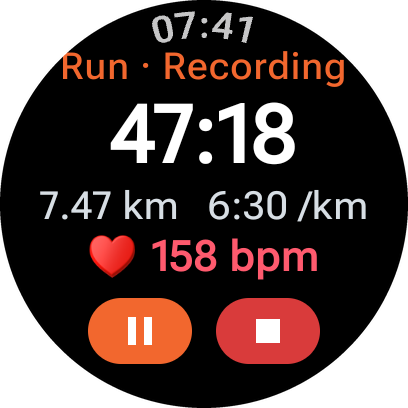
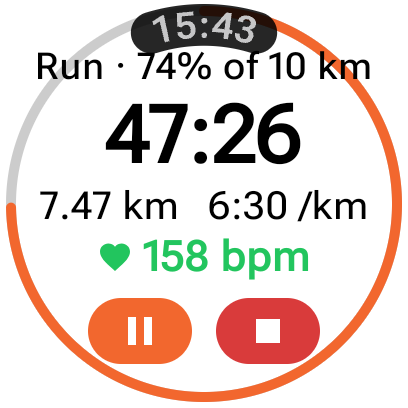
Watch: plain workout details, heart rate the only colour
Details are white on black, or black on white in a light theme. The heart is now an
icon tinted by zone (the ♥ glyph drew as a fixed red emoji). The goal ring and
buttons keep the activity colour.

diff --git a/android/wear/src/main/java/app/locale/exercisetracker/wear/WearUi.kt b/android/wear/src/main/java/app/locale/exercisetracker/wear/WearUi.kt
@@ -1,6 +1,8 @@
 package app.locale.exercisetracker.wear
 
 import androidx.compose.foundation.Canvas
+import androidx.compose.foundation.background
+import androidx.compose.foundation.isSystemInDarkTheme
 import androidx.compose.foundation.layout.Arrangement
 import androidx.compose.foundation.layout.Box
 import androidx.compose.foundation.layout.Column
@@ -168,9 +170,15 @@ private fun ActiveScreen(
         }
     }
     val paused = status.state != "recording"
+    val dark = isSystemInDarkTheme()
+    val fg = if (dark) Color.White else Color.Black
+    val bg = if (dark) Color.Black else Color.White
     val goal = status.goalM?.takeIf { it > 0 }
     val progress = if (goal != null) (status.distance / goal).toFloat().coerceIn(0f, 1f) else null
     ScreenScaffold {
+        // Plain details (white on black, or black on white in a light theme); only heart rate (by zone)
+        // and the ring and buttons (by activity) are coloured.
+        Box(Modifier.fillMaxSize().background(bg))
         // Goal progress around the edge of the round screen.
         if (progress != null) {
             Canvas(Modifier.fillMaxSize().padding(3.dp)) {
@@ -178,7 +186,7 @@ private fun ActiveScreen(
                 val inset = stroke / 2
                 val arcSize = androidx.compose.ui.geometry.Size(size.width - stroke, size.height - stroke)
                 val topLeft = androidx.compose.ui.geometry.Offset(inset, inset)
-                drawArc(Color(0x33FFFFFF), -90f, 360f, false, topLeft, arcSize, style = Stroke(stroke))
+                drawArc(fg.copy(alpha = 0.2f), -90f, 360f, false, topLeft, arcSize, style = Stroke(stroke))
                 drawArc(accent, -90f, 360f * progress, false, topLeft, arcSize, style = Stroke(stroke, cap = StrokeCap.Round))
             }
         }
@@ -190,28 +198,33 @@ private fun ActiveScreen(
             Text(
                 if (!paused && goal != null) "${activityLabel(status.activity)} · ${(progress!! * 100).toInt()}% of ${formatGoal(goal, status.units)}"
                 else "${activityLabel(status.activity)} · ${stateLabel(status.state)}",
-                color = if (paused) Color(0xFFD08A10) else accent,
+                color = fg,
                 style = MaterialTheme.typography.labelMedium,
             )
             Text(
                 formatDuration(now),
                 fontSize = 40.sp,
                 fontWeight = FontWeight.Bold,
-                color = Color.White,
+                color = fg,
             )
             Row(horizontalArrangement = Arrangement.spacedBy(14.dp), verticalAlignment = Alignment.CenterVertically) {
-                Metric(formatDistance(status.distance, status.units))
-                Metric(formatSpeed(status.speed, status.activity, status.units))
+                Metric(formatDistance(status.distance, status.units), fg)
+                Metric(formatSpeed(status.speed, status.activity, status.units), fg)
             }
             Spacer(Modifier.height(2.dp))
-            Text(
-                if (hr != null) "♥ $hr bpm" else "♥ --",
-                color = heartColor(hr, status),
-                fontSize = 18.sp,
-                fontWeight = FontWeight.SemiBold,
-            )
+            val heart = heartColor(hr, status)
+            Row(horizontalArrangement = Arrangement.spacedBy(5.dp), verticalAlignment = Alignment.CenterVertically) {
+                // An icon, not "♥", which renders as a fixed-colour emoji.
+                Icon(painterResource(R.drawable.ic_heart), contentDescription = "Heart rate", tint = heart, modifier = Modifier.size(18.dp))
+                Text(
+                    if (hr != null) "$hr bpm" else "--",
+                    color = heart,
+                    fontSize = 18.sp,
+                    fontWeight = FontWeight.SemiBold,
+                )
+            }
             if (error != null) Message(error, MaterialTheme.colorScheme.error)
-            else AnnouncementCaption()
+            else AnnouncementCaption(fg)
             Spacer(Modifier.height(8.dp))
             Row(horizontalArrangement = Arrangement.spacedBy(12.dp)) {
                 FilledIconButton(
@@ -240,7 +253,7 @@ private fun ActiveScreen(
                 }
             }
             Box(Modifier.height(18.dp), contentAlignment = Alignment.Center) {
-                if (confirmStop) Text("Tap stop again to finish", style = MaterialTheme.typography.bodySmall)
+                if (confirmStop) Text("Tap stop again to finish", style = MaterialTheme.typography.bodySmall, color = fg)
             }
         }
     }
@@ -248,7 +261,7 @@ private fun ActiveScreen(
 
 /** The phone's last announcement, for a few seconds after the watch buzzes. */
 @Composable
-private fun AnnouncementCaption() {
+private fun AnnouncementCaption(fg: Color) {
     val last by PhoneLink.announcement.collectAsStateWithLifecycle()
     var visible by remember { mutableStateOf(false) }
     LaunchedEffect(last) {
@@ -263,7 +276,7 @@ private fun AnnouncementCaption() {
         Text(
             last!!.first,
             style = MaterialTheme.typography.bodySmall,
-            color = Color(0xFFD7DEE4),
+            color = fg,
             textAlign = TextAlign.Center,
             maxLines = 2,
             overflow = TextOverflow.Ellipsis,
@@ -275,8 +288,8 @@ private fun AnnouncementCaption() {
 private const val CAPTION_MS = 8_000L
 
 @Composable
-private fun Metric(text: String) {
-    Text(text, fontSize = 16.sp, fontWeight = FontWeight.Medium, color = Color(0xFFD7DEE4))
+private fun Metric(text: String, fg: Color) {
+    Text(text, fontSize = 16.sp, fontWeight = FontWeight.Medium, color = fg)
 }
 
 private fun stateLabel(state: String) = when (state) {

diff --git a/README.md b/README.md
@@ -66,7 +66,7 @@ sensors.
 <p align="center">
   <img src="docs/screenshots/watch-home.png" width="200" alt="Pixel Watch: Locale start screen with Start Run and Start Walk">
   &nbsp;
-  <img src="docs/screenshots/watch-workout.png" width="200" alt="Pixel Watch: workout in progress with elapsed time, distance, pace, heart rate, pause and stop">
+  <img src="docs/screenshots/watch-workout.png" width="200" alt="Pixel Watch: workout in progress with goal ring, elapsed time, distance, pace, zone-coloured heart rate, pause and stop">
 </p>
 
 <sub>The phone screenshots show the built-in sample workout, a simulated run of the Sydney
@@ -146,9 +146,10 @@ are from a Pixel Watch 3; the workout screen uses the debug build's demo mode.</
 - **Live heart rate** from the watch, read through Wear OS Health Services and streamed to
   the phone about every 3 s. It's saved into the workout recording, so every GPS point
   has a heart rate.
-- **Watch screen:** elapsed time, distance, pace or speed, and heart rate. The heart rate
-  is coloured by zone, matching the phone's zone colours (from your profile's max and
-  resting heart rate). The workout also shows on the watch face as an ongoing activity.
+- **Watch screen:** elapsed time, distance, pace or speed, and heart rate. The details are
+  white on black (black on white in a light theme); only the heart rate is coloured, by
+  zone, matching the phone's zone colours (from your profile's max and resting heart rate).
+  The goal ring and buttons keep the activity's colour. The workout also shows on the watch face as an ongoing activity.
 - **Starting with the phone in your pocket** needs location set to "Allow all the time"
   (Settings → Watch). Without it, the watch asks you to tap a notification on the phone.
 - **Pull to refresh** on the Track and History screens picks up workouts recorded from the watch, a
